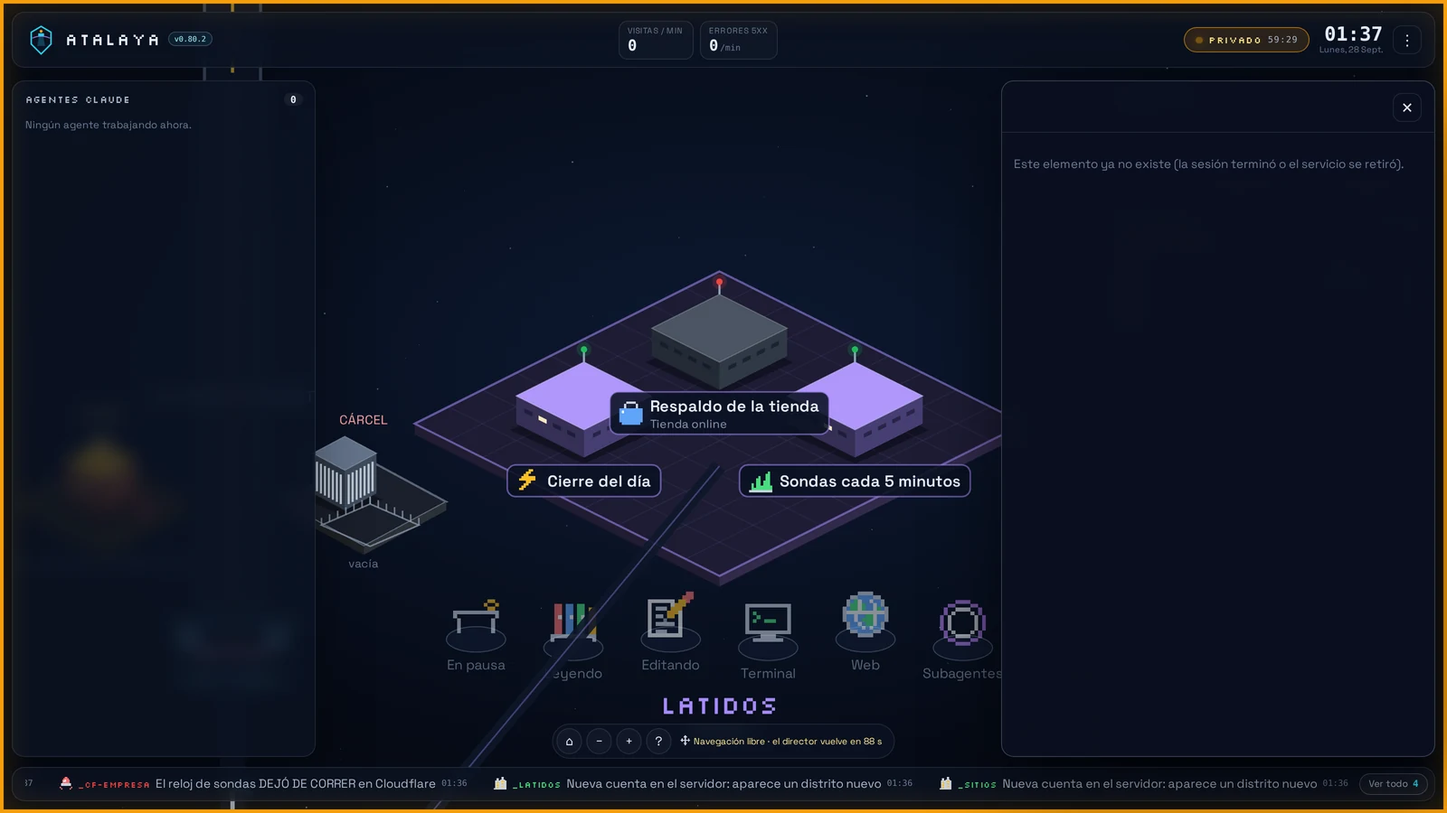
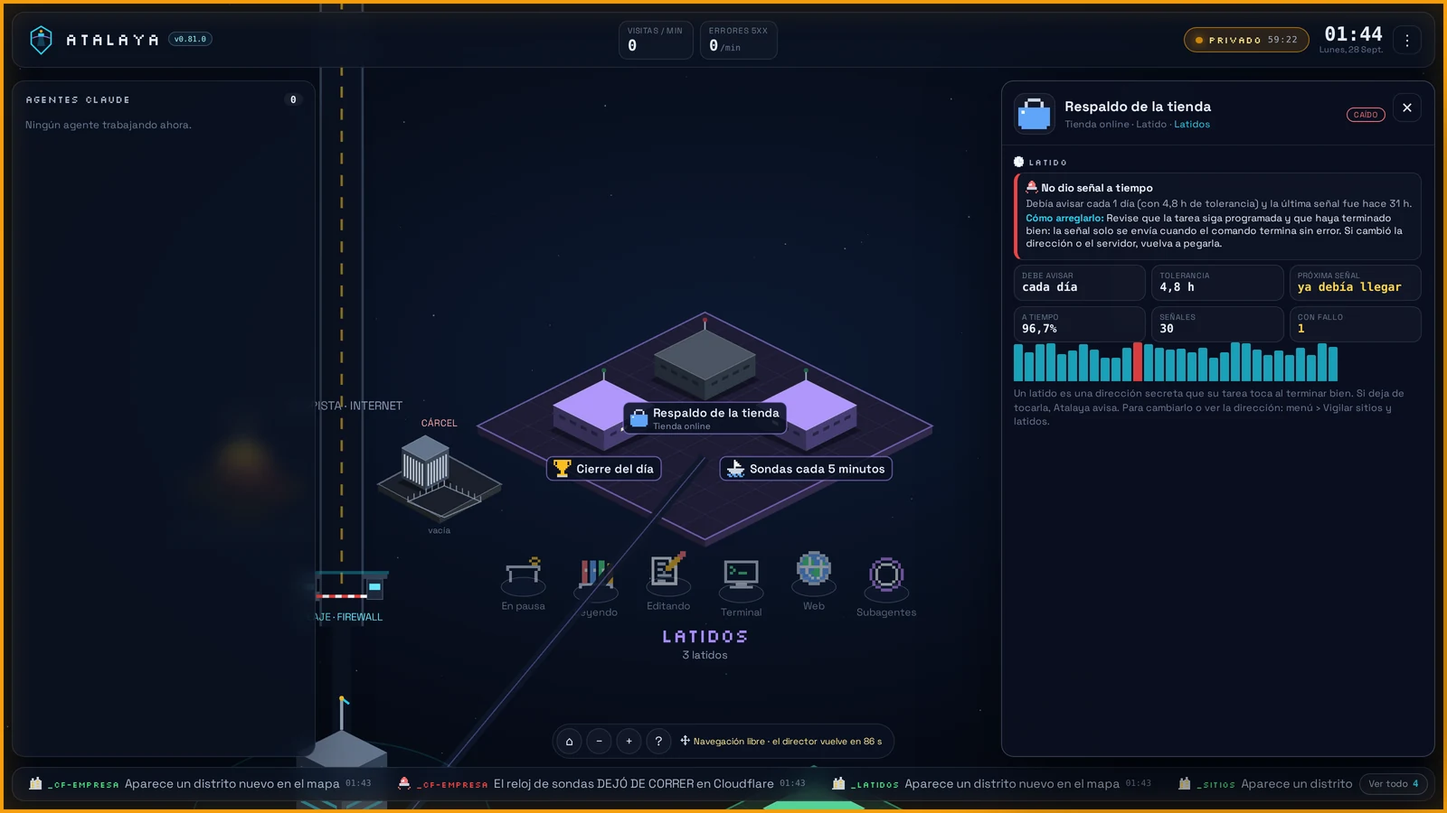
Version 0.81.1: menú más claro

diff --git a/site/guias/index.html b/site/guias/index.html
@@ -72,7 +72,7 @@
         <li><b>Elija la dirección.</b><p>Minúsculas, números y guiones, por ejemplo <code>mi-estudio</code>. No se puede cambiar después.</p></li>
         <li><b>Cree su usuario y un PIN de 6 dígitos.</b><p>Con ellos entrará desde el TV, la computadora o el teléfono. Usted es el <b>dueño</b>: el único que puede ver el modo privado y conectar cosas.</p></li>
         <li><b>Siga el asistente.</b><p>Se abre solo. En <b>Extras</b> conecta Vercel, Supabase, GitHub y sus laptops con Claude Code. Cada campo dice dónde encontrar el dato.</p></li>
-        <li><b>Conecte sus hostings y sitios WordPress</b><p>desde el menú de la pantalla › <b>Conectar un hosting compartido</b>. Las guías de <a href="#agente">hosting</a> y <a href="#wordpress">WordPress</a> lo explican.</p></li>
+        <li><b>Conecte sus hostings y sitios WordPress</b><p>desde el menú de la pantalla › <b>Conectar un hosting o WordPress</b>. Las guías de <a href="#agente">hosting</a> y <a href="#wordpress">WordPress</a> lo explican.</p></li>
       </ol>
       <div class="tip"><span data-px="info"></span><span>Lo que conecte aparece en uno o dos minutos como un distrito nuevo, con sus edificios. Puede volver al asistente cuando quiera: menú › <b>Asistente de configuración</b>.</span></div>
     </section>
@@ -133,7 +133,7 @@
       <p class="meta">5 minutos · cPanel, Hostinger, GoDaddy, Namecheap y otros</p>
       <p>Un agente pequeño corre por cron cada minuto, lee solo esa cuenta y envía los datos a su pantalla. No se instala nada en <code>public_html</code>, no usa base de datos y no abre puertos.</p>
       <ol class="steps">
-        <li><b>En Atalaya:</b><p>menú › <b>Conectar un hosting compartido</b>. Escriba un nombre corto (por ejemplo <code>cliente-godaddy</code>) y pulse <b>Generar código</b>. El código vale 24 horas y sirve una sola vez.</p></li>
+        <li><b>En Atalaya:</b><p>menú › <b>Conectar un hosting o WordPress</b>. Escriba un nombre corto (por ejemplo <code>cliente-godaddy</code>) y pulse <b>Generar código</b>. El código vale 24 horas y sirve una sola vez.</p></li>
         <li><b>Si el hosting tiene Terminal</b><p>(cPanel › Avanzado › Terminal, o SSH), pegue el comando que le mostró Atalaya y pulse Enter. Se ve así:</p>
           <pre class="cmd"><code>curl -fsSL https://nube.neracosu.com/su-pantalla/install/agent.sh | sh -s -- https://nube.neracosu.com/su-pantalla CODIGO</code></pre></li>
         <li><b>Si no tiene Terminal:</b><p>en cPanel › <b>Trabajos de cron</b> (o hPanel › Avanzado › Cron Jobs) cree una tarea <b>cada minuto</b> (<code>* * * * *</code>) con el mismo comando. En su primera ejecución el agente se instala y esa tarea se borra sola.</p></li>
@@ -146,7 +146,7 @@
       <h2><span data-px="clock"></span> Latidos: saber que algo sí corrió</h2>
       <p class="meta">2 minutos · Respaldos, tareas cron y programas</p>
       <ol class="steps">
-        <li><b>En Atalaya:</b><p>menú › Conectar un hosting compartido › <b>Latidos</b>. Escriba un nombre, por ejemplo «Respaldo de la tienda», y cada cuánto debe avisar.</p></li>
+        <li><b>En Atalaya:</b><p>menú › Vigilar sitios y latidos › <b>Latidos</b>. Escriba un nombre, por ejemplo «Respaldo de la tienda», y cada cuánto debe avisar.</p></li>
         <li><b>Copie la dirección secreta.</b><p>Se muestra una sola vez. Atalaya le da además ejemplos listos para cron, Node, un Worker de Cloudflare y PowerShell.</p></li>
         <li><b>Péguela al final de su tarea,</b><p>de modo que solo se toque cuando la tarea terminó bien.</p></li>
         <li><b>Listo.</b><p>Si la señal deja de llegar, Atalaya le avisa. Cuando vuelve, también.</p></li>
@@ -160,7 +160,7 @@
       <ol class="steps">
         <li><b>En Cloudflare:</b><p>su perfil › <b>API Tokens</b> › Create Token › <b>Create Custom Token</b>.</p></li>
         <li><b>Permisos, todos de lectura:</b><p>Account › <b>Cloudflare Pages</b>, <b>Workers Scripts</b> y <b>Account Analytics</b>; Zone › <b>Zone</b> y <b>Analytics</b>.</p></li>
-        <li><b>En Atalaya:</b><p>menú › Asistente de configuración › Extras › <b>Cloudflare</b>. Pegue el token y pulse <b>Guardar conector</b>.</p></li>
+        <li><b>En Atalaya:</b><p>menú › Conectar o arreglar proyectos › <b>Cloudflare</b>. Pegue el token y pulse <b>Guardar conector</b>.</p></li>
         <li><b>Listo.</b><p>En un minuto aparecen sus proyectos de Pages y sus Workers. Las visitas y las corridas, en unos cinco.</p></li>
       </ol>
       <div class="tip"><span data-px="clock"></span><span><b>Relojes que callan.</b> Si un Worker con reloj (cron) deja de correr, Cloudflare no da ningún error. Atalaya lo nota, pone el edificio en rojo y le avisa.</span></div>
@@ -171,7 +171,7 @@
       <h2><span data-px="antenna"></span> Vigilar un sitio por su dominio</h2>
       <p class="meta">1 minuto · Sin instalar nada · Cloudflare Pages, Netlify, Vercel o cualquier sitio</p>
       <ol class="steps">
-        <li><b>En Atalaya:</b><p>menú › Conectar un hosting compartido › <b>Vigilar un sitio por su dominio</b>. Escriba el dominio, por ejemplo <code>mitienda.com</code>, o una dirección dentro de él, como <code>mitienda.com/api/salud</code>.</p></li>
+        <li><b>En Atalaya:</b><p>menú › Vigilar sitios y latidos › <b>Vigilar un sitio por su dominio</b>. Escriba el dominio, por ejemplo <code>mitienda.com</code>, o una dirección dentro de él, como <code>mitienda.com/api/salud</code>.</p></li>
         <li><b>Diga qué respuesta es la correcta.</b><p>Casi siempre es «que abra bien». Para una puerta que debe exigir llave elija <b>401</b>: si un día abre sin llave, Atalaya le avisa.</p></li>
         <li><b>Escriba una frase que siempre esté en la página</b><p>(opcional), como su lema. Así detecta el sitio que se publicó en blanco o roto, que igual responde «todo bien».</p></li>
         <li><b>Listo.</b><p>Una vez al día Atalaya lo revisa además como un buscador: si un sitio privado se puede indexar, si su <code>robots.txt</code> bloquea a las IA o si la página llega vacía, le avisa. Atalaya lo visita cada 5 minutos y aparece en el mapa, en el distrito «Sitios vigilados». Con las <a href="#alertas">alertas</a> conectadas, avisa una vez al caer y una vez al volver.</p></li>
@@ -184,11 +184,11 @@
       <h2><span data-px="wp"></span> Conectar un sitio WordPress</h2>
       <p class="meta">2 minutos · Sin terminal ni cron · WordPress 5.6+ y PHP 7.4+</p>
       <ol class="steps">
-        <li><b>En Atalaya:</b><p>menú › Conectar un hosting compartido › <b>Conectar un sitio WordPress</b>. Escriba un nombre corto y pulse <b>Descargar plugin</b>: baja un .zip ya configurado para su pantalla.</p></li>
+        <li><b>En Atalaya:</b><p>menú › Conectar un hosting o WordPress › <b>Conectar un sitio WordPress</b>. Escriba un nombre corto y pulse <b>Descargar plugin</b>: baja un .zip ya configurado para su pantalla.</p></li>
         <li><b>En WordPress:</b><p>Plugins › Añadir nuevo › <b>Subir plugin</b>, elija el .zip y pulse <b>Activar</b>. Se conecta solo.</p></li>
         <li><b>Listo.</b><p>Verá la versión y las actualizaciones pendientes del núcleo, plugins y temas, PHP y su fin de soporte, y avisos concretos: depuración visible, <code>debug.log</code> descargable, usuario «admin», registro abierto con un rol peligroso, editor de archivos activo, WP-Cron atrasado. También la <a href="#analitica">analítica sin cookies</a> del sitio.</p></li>
       </ol>
-      <div class="tip"><span data-px="info"></span><span><b>¿El plugin ya está instalado?</b> En el mismo lugar (menú › Conectar un hosting compartido › Conectar un sitio WordPress) pulse <b>Ya lo tengo instalado: ver código</b>. Copie la dirección y el código, y péguelos en wp-admin › Ajustes › <b>Atalaya</b>.</span></div>
+      <div class="tip"><span data-px="info"></span><span><b>¿El plugin ya está instalado?</b> En el mismo lugar (menú › Conectar un hosting o WordPress › Conectar un sitio WordPress) pulse <b>Ya lo tengo instalado: ver código</b>. Copie la dirección y el código, y péguelos en wp-admin › Ajustes › <b>Atalaya</b>.</span></div>
       <div class="tip"><span data-px="shield"></span><span>El plugin no registra rutas públicas: solo envía. El código que trae el .zip vence en 24 horas; si lo instala después, genere uno nuevo.</span></div>
     </section>
 

diff --git a/web/js/drawer.js b/web/js/drawer.js
@@ -740,7 +740,7 @@ export class Drawer {
         ${stat('Red ↓ / ↑', `${fmtBytes(s.net.rx)}/s · ${fmtBytes(s.net.tx)}/s`)}${stat('Encendido hace', dur(s.uptime))}${stat('Procesos', s.procs)}
         ${stat('Servicios', `${d.apps}${d.appsDown ? ` (${d.appsDown} con problemas)` : ''}`, d.appsDown ? 'bad' : '')}${stat('Agentes Claude', d.sessions)}
       </div>
-      ${d.connectors && d.connectors.length ? `<section class="dsec"><h4>Conectores de nube</h4><ul class="dlist">${d.connectors.map(c => `<li>
+      ${d.connectors && d.connectors.length ? `<section class="dsec"><h4>Conectores de nube</h4>${d.connectors.some(c => !c.ok || (c.warn || []).length) ? '<p class="dmuted">Hay conectores con problemas. Se arreglan en menú › <a href="setup#conectar"><b>Conectar o arreglar proyectos</b></a>.</p>' : ''}<ul class="dlist">${d.connectors.map(c => `<li>
         <span class="pill ${c.ok ? 'ok' : 'bad'}">${c.ok ? 'conectado' : 'error'}</span><span class="grow"><b>${esc(c.label)}</b> · ${c.projects} proyecto${c.projects === 1 ? '' : 's'}${c.error ? `<br><span class="dmuted">${esc(c.error)}</span>` : ''}${(c.warn || []).map(w => `<br><span class="dmuted">${px('warn')} ${esc(w)}</span>`).join('')}</span>
         <span class="dmuted">${c.lastOk ? 'leído hace ' + ago(Date.now() - c.lastOk) : 'sin lectura'}${c.type === 'vercel' ? (c.drainAt ? ` · visitas hace ${ago(Date.now() - c.drainAt)}` : ' · sin Drain') : ''}</span></li>`).join('')}</ul></section>` : ''}
       ${d.keys && d.keys.length ? `<section class="dsec"><h4>Servicios clave</h4><div class="keys">${d.keys.map(k => `<span class="keysvc ${k.state === 'active' ? 'ok' : k.state === 'failed' ? 'bad' : 'off'}" title="${esc(k.unit)} · ${esc(k.substate || k.state)}">${esc(k.label)}<b>${k.state === 'active' ? 'activo' : k.state === 'failed' ? 'FALLÓ' : k.state === 'inactive' ? 'detenido' : esc(k.state)}</b></span>`).join('')}</div></section>` : ''}`, `<section class="dsec"><h4>Visitantes por país · última hora</h4><ul class="dlist">${bars(d.countries, k => `${flag(k)} ${esc(countryName(k))}`, d.countries.reduce((n, x) => n + x.n, 0))}</ul></section>
@@ -808,7 +808,7 @@ export class Drawer {
       const maxMs = Math.max(1, ...u.series.map(x => x.ms));
       const bars = u.series.length ? `<div class="anahours upbars">${u.series.map(x => `<i class="${x.ok ? '' : 'bad'}" style="height:${x.ok ? Math.max(6, Math.round(x.ms / maxMs * 100)) : 100}%" title="${new Date(x.t).toLocaleTimeString('es-VE', { hour: '2-digit', minute: '2-digit', hour12: false })} · ${x.ok ? x.ms + ' ms' : 'falló'}"></i>`).join('')}</div>` : '';
       const head = u.ok === false ? `<div class="afind bad"><h5>${px('siren')} No responde bien: ${esc(u.why || 'sin respuesta')}</h5><p class="dmuted">Desde hace ${ago(Date.now() - u.since)}. Atalaya lo probó dos veces antes de avisar.</p>
-          <p class="fix">Ábralo en su navegador. Si tampoco le abre, revise el último despliegue y el estado de su proveedor. Si a usted sí le abre, puede que la frase o la respuesta esperada ya no correspondan: quite el sitio y agréguelo de nuevo desde menú › Instalar.</p></div>`
+          <p class="fix">Ábralo en su navegador. Si tampoco le abre, revise el último despliegue y el estado de su proveedor. Si a usted sí le abre, puede que la frase o la respuesta esperada ya no correspondan: quite el sitio y cámbielo en menú › Vigilar sitios y latidos › Cambiar.</p></div>`
         : u.ok ? `<p>${px('ok')} <b>Responde bien</b>${u.ms ? ` en ${fmtNum(u.ms)} ms` : ''}${u.since ? ` · sin caídas desde hace ${ago(Date.now() - u.since)}` : ''}</p>` : `<p class="dmuted">${px('clock')} Todavía no se midió: la primera visita sale en unos segundos.</p>`;
       const snippet = d.siteToken ? `<script defer src="${new URL('a.js', location.href).href}" data-site="${d.siteToken}"></script>` : '';
       body.insertAdjacentHTML('afterbegin', `<section class="dsec"><h4>Disponibilidad</h4>${head}
@@ -1261,5 +1261,5 @@ function beatHtml(d) {
     <div class="dstats">${stat('Debe avisar', b.every === 1440 ? 'cada día' : 'cada ' + mins(b.every))}${stat('Tolerancia', mins(b.grace))}${stat('Próxima señal', b.next ? (b.next > Date.now() ? 'en ' + ago(b.next - Date.now()) : 'ya debía llegar') : '–', b.next && b.next < Date.now() ? 'warn' : '')}
       ${stat('A tiempo', b.pct == null ? '–' : String(b.pct).replace('.', ',') + '%')}${stat('Señales', fmtNum(b.beats || 0))}${stat('Con fallo', fmtNum(b.fails || 0), b.fails ? 'warn' : '')}</div>
     ${bars}
-    <p class="hint">Un latido es una dirección secreta que su tarea toca al terminar bien. Si deja de tocarla, Atalaya avisa. Para cambiarlo o ver la dirección: menú › Conectar un hosting compartido › Latidos.</p></section>`;
+    <p class="hint">Un latido es una dirección secreta que su tarea toca al terminar bien. Si deja de tocarla, Atalaya avisa. Para cambiarlo o ver la dirección: menú › Vigilar sitios y latidos.</p></section>`;
 }

diff --git a/web/js/setup.js b/web/js/setup.js
@@ -218,9 +218,9 @@ async function renderAccount() {
     <p class="lead">Atalaya Hosting ve la cuenta a través de un <b>agente</b>: una tarea cron que corre cada minuto, lee sus sitios, visitas, errores, cuota, bases,
       certificados y correo, y los envía a esta pantalla. No toca <code>public_html</code> ni cambia nada.</p>
     <div class="extra"><h3>${px('house')} Esta cuenta<span class="st ${has ? 'ok' : 'off'}" id="ast">${has ? 'conectada' : 'sin conectar'}</span></h3>
-      <p class="hint">Crea la tarea cron <code>* * * * *</code> con el agente en <code>~/.atalaya</code>. Se puede quitar cuando quiera desde el menú ⋮ › Conectar un hosting compartido.</p>
+      <p class="hint">Crea la tarea cron <code>* * * * *</code> con el agente en <code>~/.atalaya</code>. Se puede quitar cuando quiera desde el menú ⋮ › Conectar un hosting o WordPress.</p>
       <div class="row"><button class="btn" id="agl">${has ? 'Reinstalar el agente' : 'Instalar el agente aquí'}</button></div><div id="agout"></div></div>
-    <p class="hint">¿Tiene más hostings (de este u otro proveedor)? Conéctelos después desde el menú ⋮ › <b>Conectar un hosting compartido</b>: todos aparecen en esta misma pantalla.</p>
+    <p class="hint">¿Tiene más hostings (de este u otro proveedor)? Conéctelos después desde el menú ⋮ › <b>Conectar un hosting o WordPress</b>: todos aparecen en esta misma pantalla.</p>
     ${nav('Continuar')}`;
   bindNav();
   $('agl').addEventListener('click', async e => {
@@ -232,9 +232,9 @@ async function renderAccount() {
 
 async function renderExtras() {
   const p = st.platform;
-  card.innerHTML = `<h2>Extras (todo opcional)</h2>
-    <p class="lead">Puede activarlos ahora o más tarde desde el menú ⋮ › Asistente.</p>
-    ${mode.edition === 'cloud' ? `<p class="hint">¿Hostings o sitios WordPress? Se conectan desde la pantalla: menú › <b>Conectar un hosting compartido</b>.</p>` : mode.edition === 'equipo' ? '' : `<div class="extra"><h3>${px('web')} Países de las visitas<span class="st ${st.geo ? 'ok' : 'off'}" id="gst">${st.geo ? 'disponible' : 'sin base'}</span></h3>
+  card.innerHTML = `<h2>${mode.setupMode ? 'Conecte sus proyectos (todo opcional)' : 'Conectar o arreglar proyectos'}</h2>
+    <p class="lead">${mode.setupMode ? 'Puede hacerlo ahora o más tarde desde el menú ⋮ › Conectar o arreglar proyectos.' : 'Aquí conecta sus cuentas de nube y sus computadoras, y quita o corrige las que ya tiene. Se vuelve cuando quiera desde el menú ⋮ › Conectar o arreglar proyectos.'}</p>
+    ${mode.edition === 'cloud' ? `<p class="hint">¿Un sitio en Cloudflare Pages, Netlify u otro lugar, o un respaldo que debe avisar? Desde la pantalla: menú › <b>Vigilar sitios y latidos</b>. ¿Hostings o WordPress? Menú › <b>Conectar un hosting o WordPress</b>.</p>` : mode.edition === 'equipo' ? '' : `<div class="extra"><h3>${px('web')} Países de las visitas<span class="st ${st.geo ? 'ok' : 'off'}" id="gst">${st.geo ? 'disponible' : 'sin base'}</span></h3>
       <p class="hint">Para mostrar la bandera de cada visita. ${st.geo ? 'Ya hay una base en el servidor.' : 'Se descarga la gratuita de DB-IP (~8 MB).'}</p>
       ${st.geo ? '' : '<div class="row"><button class="btn" id="geo">Descargar base de países</button></div>'}</div>`}
     ${mode.edition !== 'vps' ? '' : `<div class="extra"><h3>${px('bot')} Claude Code en este servidor<span class="st off" id="hst">${p.claudeAccounts ? p.claudeAccounts + ' cuenta(s)' : 'no detectado'}</span></h3>
@@ -384,7 +384,8 @@ async function renderDone() {
   else if (mode.edition === 'equipo') steps = mode.setupMode ? [...(st ? [] : ['code']), 'equipo', 'owner', 'identity', 'extras', 'done'] : ['equipo', 'identity', 'extras', 'done'];
   else steps = mode.setupMode ? [...(st ? [] : ['code']), 'welcome', 'owner', 'identity', pub, 'extras', 'done'] : ['welcome', 'identity', pub, 'extras', 'done'];
   if (!mode.setupMode && !mode.owner) { location.href = 'login'; return; }
-  go(0);
+  // desde el menu «Conectar o arreglar proyectos» se entra directo al paso de los conectores
+  go(!mode.setupMode && /conectar/.test(location.hash) && steps.includes('extras') ? steps.indexOf('extras') : 0);
 })();
 
 // fondo de estrellas (igual que el acceso)

diff --git a/web/js/main.js b/web/js/main.js
@@ -187,6 +187,8 @@ $('menu').addEventListener('click', async e => {
   if (act === 'fullscreen') toggleFs();
   if (act === 'lock') goPublic();
   if (act === 'setup') location.href = 'setup';
+  if (act === 'connect') location.href = 'setup#conectar';
+  if (act === 'hosting2') openInstall('hosting');
   if (act === 'install') openInstall('vps');
   if (act === 'hosting') openInstall('hosting');
   if (act === 'equipo') openInstall('equipo');
@@ -341,7 +343,7 @@ function beatsSection(B, made) {
   const ST = { ok: ['ok', 'al día'], late: ['bad', 'atrasado'], failed: ['bad', 'falló'], new: ['waiting', 'sin señal aún'] };
   const every = n => n < 60 ? `${n} min` : n < 1440 ? `${Math.round(n / 6) / 10} h`.replace('.', ',') : n === 1440 ? 'día' : n === 10080 ? 'semana' : `${Math.round(n / 144) / 10} días`.replace('.', ',');
   const rows = (B.beats || []).map(x => `<li><span class="pill ${x.paused ? 'waiting' : (ST[x.state] || ST.new)[0]}">${x.paused ? 'en pausa' : (ST[x.state] || ST.new)[1]}</span>
-      <span class="grow"><b>${ie(x.name)}</b><br><span class="dmuted">cada ${every(x.every)}${x.last ? ' · última señal hace ' + Math.max(1, Math.round((Date.now() - x.last) / 60000)) + ' min' : ''}</span></span>
+      <span class="grow"><b>${ie(x.name)}</b><br><span class="dmuted">cada ${every(x.every)}${x.last ? ' · última señal hace ' + (m => m < 120 ? m + ' min' : m < 2880 ? Math.round(m / 60) + ' h' : Math.round(m / 1440) + ' días')(Math.max(1, Math.round((Date.now() - x.last) / 60000))) : ''}</span></span>
       <button class="btn small ghost" data-beat-url="${ie(x.id)}">Dirección nueva</button><button class="btn small ghost" data-beat-pause="${ie(x.id)}" data-on="${x.paused ? '' : '1'}">${x.paused ? 'Reanudar' : 'Pausar'}</button><button class="btn small ghost" data-beat-remove="${ie(x.id)}" data-beat-name="${ie(x.name)}">Quitar</button></li>`).join('');
   const how = m => `<div class="newagent"><h4>${px('ok')} ${m.name ? 'Listo: «' + ie(m.name) + '»' : 'Dirección nueva'}</h4>
       <p class="lhelp">Esta es la dirección secreta del latido. <b>Se muestra solo esta vez</b>: quien la tenga puede dar la señal.</p>${copyBox('beaturl', m.url)}

diff --git a/web/index.html b/web/index.html
@@ -37,12 +37,14 @@
       <button data-act="director">Modo director <kbd>D</kbd></button>
       <button data-act="lock">Pasar a público <kbd>L</kbd></button>
       <button data-act="lockall">Bloquear todas las pantallas</button>
+      <button data-act="connect" class="owneronly"><b>Conectar o arreglar proyectos</b></button>
+      <button data-act="hosting" class="owneronly noequipo">Vigilar sitios y latidos</button>
       <button data-act="setup" class="owneronly">Asistente de configuración</button>
       <button data-act="users" class="owneronly">Usuarios</button>
       <button data-act="alerts" class="owneronly">Alertas por Telegram y correo</button>
       <button data-act="maestro" class="owneronly" id="maestroBtn" hidden>Panel maestro de la nube</button>
       <button data-act="install" class="owneronly nocloud">Instalar en otro servidor</button>
-      <button data-act="hosting" class="owneronly noequipo">Conectar un hosting compartido</button>
+      <button data-act="hosting2" class="owneronly noequipo">Conectar un hosting o WordPress</button>
       <button data-act="equipo" class="owneronly nocloud noequipo">Atalaya para su computadora</button>
       <button data-act="logout">Cerrar sesión</button>
       <span class="mver" id="version"></span>

diff --git a/web/js/hud.js b/web/js/hud.js
@@ -325,7 +325,7 @@ export function tickerEvent(e, accounts, priv) {
       addTicker('db', e.label || '', `Consulta lenta en ${e.db}: ${e.secs} s`, '#fbbf24', 'database:' + e.db);
       return;
     case 'account':
-      addTicker(e.action === 'added' ? 'city' : 'ruin', e.label || '', e.action === 'added' ? 'Nueva cuenta en el servidor: aparece un distrito nuevo' : 'Una cuenta fue eliminada del servidor', e.action === 'added' ? '#4ade80' : '#f87171', e.action === 'added' ? 'district:' + e.account : null);
+      addTicker(e.action === 'added' ? 'city' : 'ruin', e.label || '', e.action === 'added' ? (String(e.account || '').startsWith('_') ? 'Aparece un distrito nuevo en el mapa' : 'Nueva cuenta en el servidor: aparece un distrito nuevo') : (String(e.account || '').startsWith('_') ? 'Un distrito salió del mapa' : 'Una cuenta fue eliminada del servidor'), e.action === 'added' ? '#4ade80' : '#f87171', e.action === 'added' ? 'district:' + e.account : null);
       return;
     default: return;
   }

diff --git a/README.md b/README.md
@@ -3,7 +3,7 @@
 </p>
 
 <p align="center">
-  <img alt="Versión" src="https://img.shields.io/badge/versi%C3%B3n-0.81.0-22d3ee?style=flat-square&labelColor=0b1530">
+  <img alt="Versión" src="https://img.shields.io/badge/versi%C3%B3n-0.81.1-22d3ee?style=flat-square&labelColor=0b1530">
   <img alt="Node 20+" src="https://img.shields.io/badge/node-20%2B-34d399?style=flat-square&labelColor=0b1530">
   <img alt="Sin dependencias" src="https://img.shields.io/badge/servidor-sin%20dependencias-a78bfa?style=flat-square&labelColor=0b1530">
   <img alt="Lee todo, actúa a pedido" src="https://img.shields.io/badge/acceso-lee%20todo%20%C2%B7%20act%C3%BAa%20a%20pedido-fbbf24?style=flat-square&labelColor=0b1530">
@@ -446,7 +446,7 @@ y reinicie la app desde Setup Node.js App.
 
 <br>
 
-En su Atalaya: menú › **Conectar un hosting compartido**, escriba un nombre corto (ej. `cliente-godaddy`) y
+En su Atalaya: menú › **Conectar un hosting o WordPress**, escriba un nombre corto (ej. `cliente-godaddy`) y
 pulse **Generar código**. Le da la línea completa, con la dirección de su Atalaya (`SU-ATALAYA` abajo) y un
 código de un solo uso. En la Terminal del hosting:
 
@@ -466,7 +466,7 @@ bases, certificados, correo, recursos y cron (con los secretos tapados). Quitarl
 
 <br>
 
-1. En su Atalaya: menú › **Conectar un hosting compartido**, escriba un nombre corto (ej. `blog-ana`) y pulse
+1. En su Atalaya: menú › **Conectar un hosting o WordPress**, escriba un nombre corto (ej. `blog-ana`) y pulse
    **Descargar plugin**: un `.zip` ya configurado para su Atalaya.
 2. En WordPress: **Plugins › Añadir nuevo › Subir plugin** y **Activar**. Se conecta solo.
 
@@ -482,7 +482,7 @@ El plugin **no registra rutas públicas**: solo envía. WordPress 5.6+ y PHP 7.4
 
 <br>
 
-1. En su Atalaya: menú › **Conectar un hosting compartido** › **Latidos**. Escriba un nombre y cada cuánto debe avisar.
+1. En su Atalaya: menú › **Vigilar sitios y latidos** › **Latidos**. Escriba un nombre y cada cuánto debe avisar.
 2. Atalaya le da una **dirección secreta**. Se muestra una sola vez.
 3. Haga que su tarea la toque al terminar bien:
 
@@ -523,7 +523,7 @@ genere una nueva. En modo público no se muestran los nombres de los latidos.
 | Zone › Zone: Read | La lista de sus dominios |
 | Zone › Analytics: Read | Las visitas de cada dominio |
 
-3. En su Atalaya: menú › **Asistente de configuración** › Extras › **Cloudflare**. Pegue el token y guarde.
+3. En su Atalaya: menú › **Conectar o arreglar proyectos** › **Cloudflare**. Pegue el token y guarde.
 
 Si omite un permiso, esa parte queda apagada y el resto funciona; la Torre de control dice cuál falta.
 Con este token Atalaya **no puede cambiar nada** en su cuenta.
@@ -546,7 +546,7 @@ Este conector es distinto del token de **Defensa web › Cloudflare**, que sí e
 
 Para sitios en Cloudflare Pages, Netlify, Vercel o cualquier otro lugar donde no puede instalar un agente.
 
-1. En su Atalaya: menú › **Conectar un hosting compartido** › **Vigilar un sitio por su dominio**.
+1. En su Atalaya: menú › **Vigilar sitios y latidos** › **Vigilar un sitio por su dominio**.
 2. Escriba el dominio (`mitienda.com`) o una dirección dentro de él (`mitienda.com/api/salud`).
 3. Elija qué respuesta es la correcta y, si quiere, una frase que siempre esté en la página.
 

diff --git a/CHANGELOG.md b/CHANGELOG.md
@@ -14,6 +14,12 @@ instalación; se indican siempre en **Requiere acción**.
 
 ## [Sin publicar]
 
+## [0.81.1] - 2026-09-28
+
+### Cambiado
+- **El menú dice dónde está cada cosa**: «Conectar o arreglar proyectos» lleva directo a los conectores (Cloudflare, Supabase, Vercel, GitHub, laptops), «Vigilar sitios y latidos» a los sitios por dominio y los latidos, y «Conectar un hosting o WordPress» a los agentes. Antes todo estaba dentro de «Asistente de configuración» y «Conectar un hosting compartido».
+- Si un conector tiene problemas, la Torre de control enlaza a donde se arregla.
+
 ## [0.81.0] - 2026-09-28
 
 ### Cambiado
@@ -1480,7 +1486,8 @@ instalación; se indican siempre en **Requiere acción**.
   cPHulk, Exim), mundo isométrico en PixiJS, HUD con uPlot y anime.js, acceso con usuario y
   PIN de 6 dígitos y modo público/privado aplicado en el servidor.
 
-[Sin publicar]: https://github.com/neracosu/atalaya-monitor/compare/v0.81.0...HEAD
+[Sin publicar]: https://github.com/neracosu/atalaya-monitor/compare/v0.81.1...HEAD
+[0.81.1]: https://github.com/neracosu/atalaya-monitor/compare/v0.81.0...v0.81.1
 [0.81.0]: https://github.com/neracosu/atalaya-monitor/compare/v0.80.2...v0.81.0
 [0.80.2]: https://github.com/neracosu/atalaya-monitor/compare/v0.80.1...v0.80.2
 [0.80.1]: https://github.com/neracosu/atalaya-monitor/compare/v0.80.0...v0.80.1
